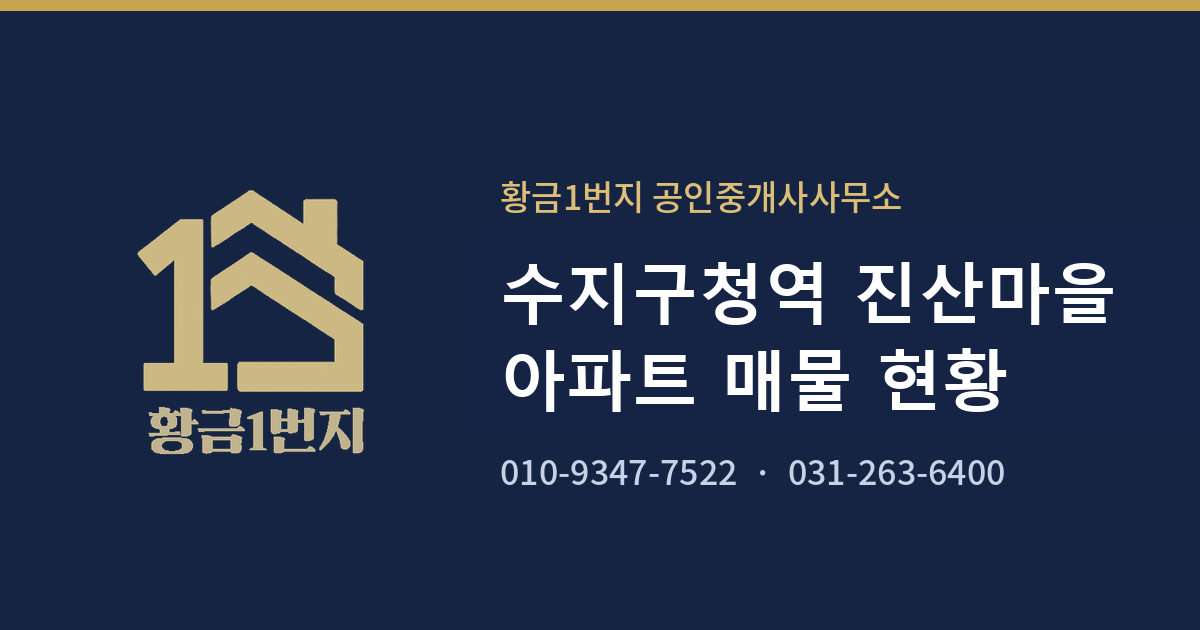
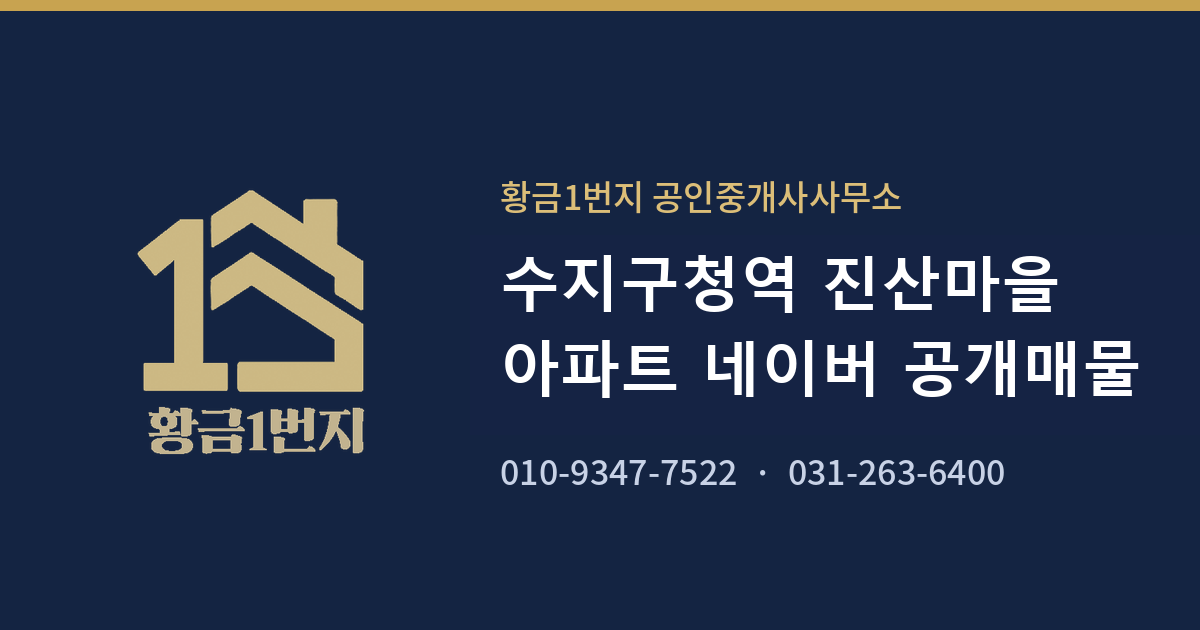
제목 변경

Changed region(s): [[0.4008, 0.5429, 0.9558, 0.6635], [0.4008, 0.3921, 0.925, 0.5127]]

diff --git a/index.html b/index.html
@@ -3,12 +3,12 @@
 <head>
 <meta charset="utf-8">
 <meta name="viewport" content="width=device-width,initial-scale=1">
-<title>수지구청역 진산마을 아파트 매물 현황</title>
+<title>수지구청역 진산마을 아파트 네이버 공개매물</title>
 <meta name="description" content="황금1번지 공인중개사사무소 · 진산마을 아파트 매물 현황">
 <meta property="og:url" content="https://kym07-30.github.io/jinsan-maemul/">
 <meta property="og:type" content="website">
 <meta property="og:site_name" content="황금1번지 공인중개사사무소">
-<meta property="og:title" content="수지구청역 진산마을 아파트 매물 현황">
+<meta property="og:title" content="수지구청역 진산마을 아파트 네이버 공개매물">
 <meta property="og:description" content="황금1번지 공인중개사사무소 · 진산마을 전문">
 <meta property="og:image" content="https://kym07-30.github.io/jinsan-maemul/og.png">
 <meta property="og:image:width" content="1200">
